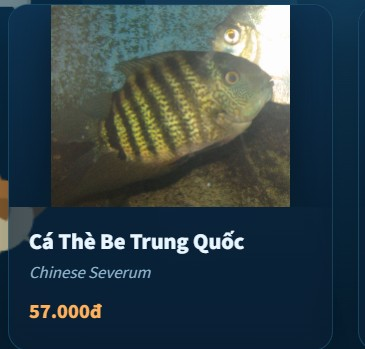
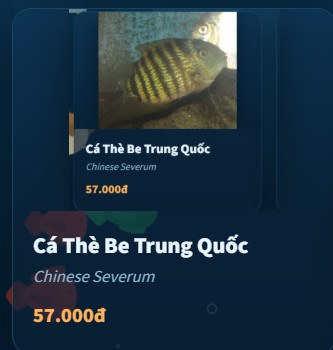
Thay anh Cánh Cụt Đuôi Đỏ + Thè Bè Trung Quốc

diff --git a/fish.html b/fish.html
@@ -49,7 +49,7 @@
 
 <script src="assets/js/scene.js"></script>
 <script async defer src="https://connect.facebook.net/en_US/sdk.js#xfbml=1&version=v18.0"></script>
-<script src="assets/js/fish-data.js?v=39"></script>
+<script src="assets/js/fish-data.js?v=40"></script>
 <script src="assets/js/detail.js?v=28"></script>
 </body>
 </html>

diff --git a/beca.html b/beca.html
@@ -48,7 +48,7 @@
 </footer>
 
 <script src="assets/js/scene.js"></script>
-<script src="assets/js/fish-data.js?v=39"></script>
+<script src="assets/js/fish-data.js?v=40"></script>
 <script src="assets/js/shop.js?v=4"></script>
 </body>
 </html>
